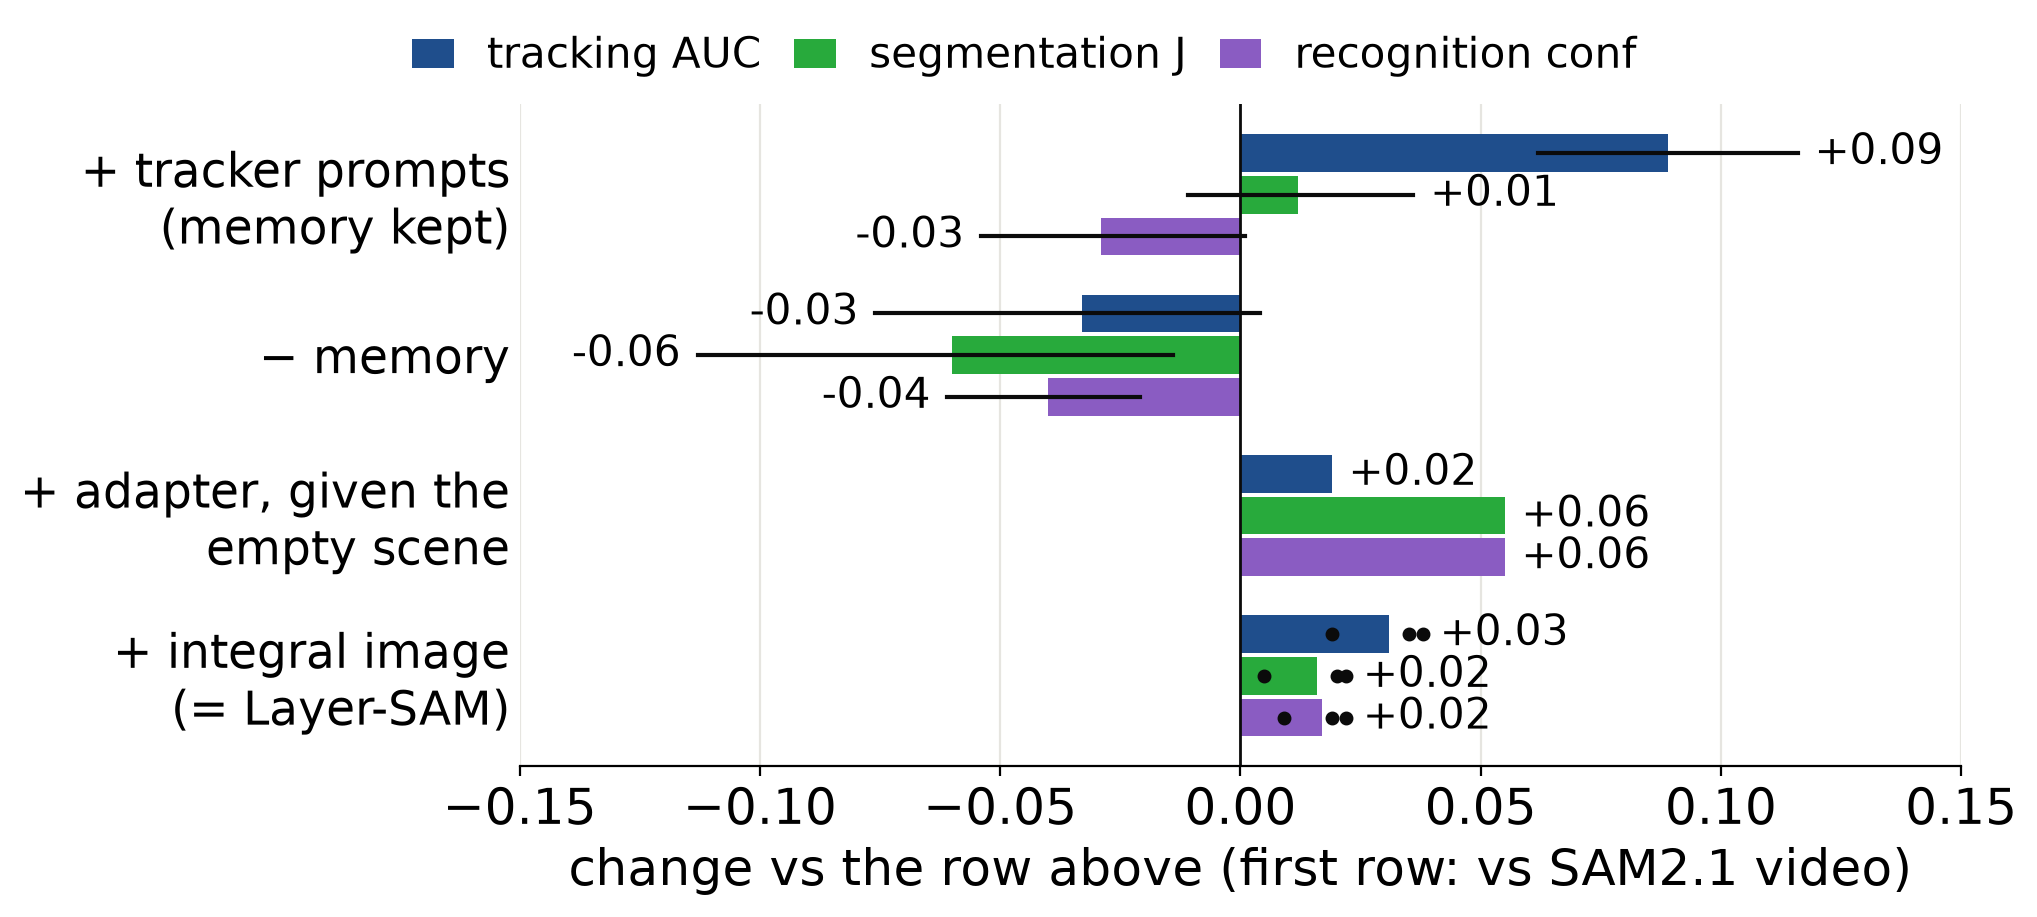
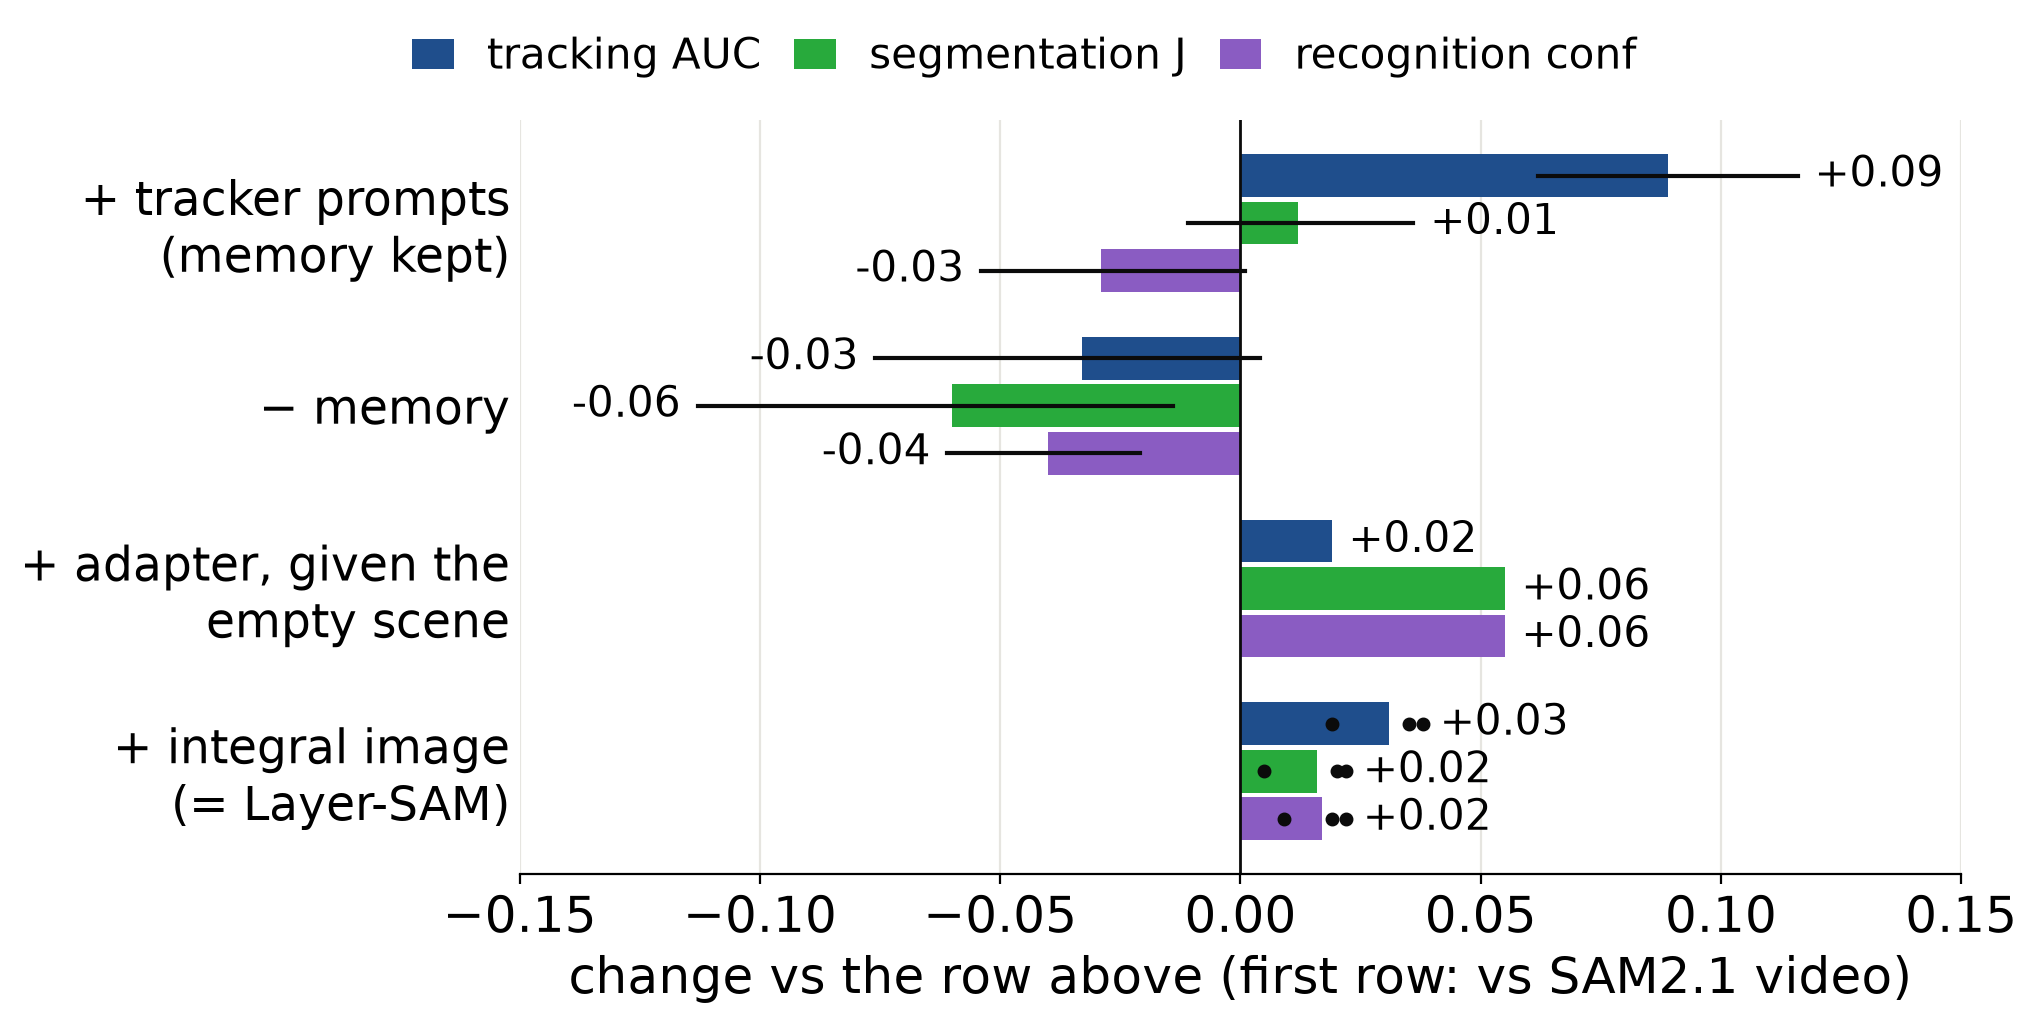
Poster: results section at the top of column 3, recognition-vs-N moved to column 2 as a benchmark note; larger column-3 plots

diff --git a/benchmark/nfo_vos/tools/poster_figures.py b/benchmark/nfo_vos/tools/poster_figures.py
@@ -113,7 +113,7 @@ def playsafe_options():
 def qual():
     """Results column: the section-2 frame again, now with our mask, plus a frame late in another crossing."""
     playsafe((('seq4', 293), ('seq4', 123)), arms=(('b0-c2', 'SAM2.1', C_B0), ('adapter-pf', 'Layer-SAM', C_OURS)),
-             name='qual.png', pad_x=0.5, row_h=3.6)
+             name='qual.png', pad_x=0.5, row_h=4.0)
 
 
 def playsafe(picks=(('seq4', 293),), arms=(('b0-c2', 'SAM2.1 video', C_B0),), name='playsafe.png', label_rows=False,
@@ -192,7 +192,7 @@ def ablation():
     """Rows: ingredients added one at a time; per row one bar per question (3-seed means). Line: 95% CI of the single
     comparison (none on this table, all steps from the SAM2.1 video baseline); dots: the three seeds (integral image)."""
     qs = (('tracking AUC', '#1f4e8c'), ('segmentation J', '#28aa3c'), ('recognition conf', '#8a5cc2'))
-    fig, ax = plt.subplots(figsize=(9.3, 4.3))
+    fig, ax = plt.subplots(figsize=(9.3, 4.9))
     h = 0.26
     for r, (name, d, ci, seeds) in enumerate(STEPS):
         for m, (q, col) in enumerate(qs):
@@ -229,7 +229,7 @@ def masksize():
     r = MF.late_ratio(F, 'b0-c2', list(F['b0-c2']))
     m, lo, hi, n, g = MF.boot_mean(r, list(r))
     print(f'SAM2.1 video / ours mask size, k >= {MF.K1}: x{np.exp(m):.2f} [{np.exp(lo):.2f}, {np.exp(hi):.2f}] ({n} clips)')
-    fig, ax = plt.subplots(figsize=(9.3, 4.4))
+    fig, ax = plt.subplots(figsize=(9.3, 5.0))
     # legend: fitted change of mask size per 10 frames (mask_fill trends, k = 6...end, mean over the 32 crossings)
     S = MF.trends(F)
     pct = lambda a: f'{(np.exp(MF.boot_mean(S[a], list(S[a]))[0]) - 1) * 100:+.0f}%'

diff --git a/docs/poster/poster_latex/NFO_VOS_inhalt.tex b/docs/poster/poster_latex/NFO_VOS_inhalt.tex
@@ -119,7 +119,13 @@ frame, person, visible target, loss weights.}
 more than false alarms. Hidden pixels next to visible fragments (yellow) are not penalised; far hidden ones (red)
 count as background, at lower weight.
 
+\Unter{Benchmark note: recognition vs.\ frames integrated}
+\Bild{plots/nfo/recogN.png}
+\Unterschrift{YOLO11 AP50 (Layer-SAM: one seed; SAM2.1 rows as in 6). Good masks matter for short integrations
+(N\,$\le$\,7: noisy masks lose); for long ones the plain average wins and masks become unnecessary.}
+
 %======================================================================= column 3: results
+\columnbreak
 \par\noindent\begin{minipage}{\linewidth}\raggedright   % heading + table + caption stay together
 \Abschnitt{6\quad Results on NFO-VOS}
 
@@ -155,9 +161,5 @@ shrink (0.76$\times$ Layer-SAM after frame 30); with tracker prompts they keep t
 \Unterschrift{From SAM2.1 to Layer-SAM, one change per row; lines: 95\,\% CI, dots: 3 seeds. Without the integral image, the
 adapter gets the empty scene in its place.}
 
-\Unter{Recognition vs.\ frames integrated}
-\Bild{plots/nfo/recogN.png}
-\Unterschrift{YOLO11 AP50 (Layer-SAM: one seed). Good masks matter for short integrations (N\,$\le$\,7: noisy masks
-lose); for long ones the plain average wins and masks become unnecessary.}
 
 \end{multicols*}
